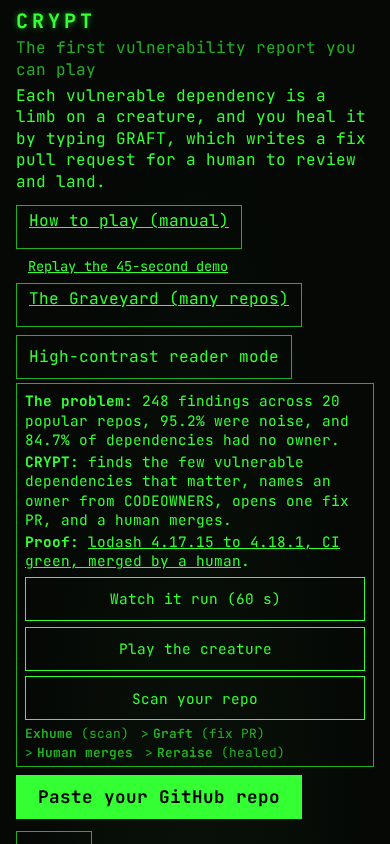
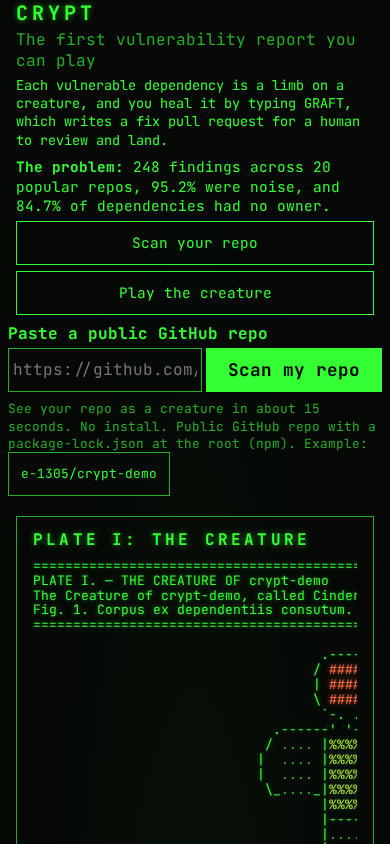
feat: compact phone hero, game input within two screens at 390x844

diff --git a/web/style.css b/web/style.css
@@ -269,17 +269,38 @@ body.record .theatre-caption { display: none; }
   body:not(.theatre) > * { order: 0; min-width: 0; max-width: 100%; }
   body:not(.theatre) .crt, body:not(.theatre) .left, body:not(.theatre) .side { display: contents; }
   body:not(.theatre) .crt { box-shadow: none; }
-  body:not(.theatre) .plate-pane { order: 1; margin: .5rem 1rem 0; }
-  body:not(.theatre) .game { order: 2; margin: 1rem 1rem 0; }
-  body:not(.theatre) #raid { order: 3; margin: 1rem; }
-  body:not(.theatre) #sim { order: 4; margin: 0 1rem 1rem; }
-  body:not(.theatre) .side > .pane { order: 5; margin: 0 1rem 1rem; }
-  body:not(.theatre) #proof { order: 6; margin: 0 1rem 1rem; }
+  /* R2: the first screen is the title, the problem line, Scan your repo, Play and the paste form. The plate and the game
+     follow. The what/proof lines, the 3-step strip, Watch it run, the Bench and the header links sit below the game. */
+  body:not(.theatre) .top, body:not(.theatre) .hero, body:not(.theatre) .hero-actions { display: contents; }
+  body:not(.theatre) .top > *, body:not(.theatre) .hero > *, body:not(.theatre) .hero-actions > * { min-width: 0; max-width: 100%; }
+  body:not(.theatre) .intro { order: 0; flex: none; margin: 0 1rem; }
+  body:not(.theatre) .intro .pitch { font-size: .85rem; margin: .25rem 0; }
+  body:not(.theatre) .intro .subtitle { margin: .1rem 0; }
+  body:not(.theatre) #hero-problem { order: 1; margin: .25rem 1rem 0; }
+  body:not(.theatre) #hero-scan { order: 2; margin: .35rem 1rem 0; flex: none; }
+  body:not(.theatre) #hero-play { order: 3; margin: .35rem 1rem 0; flex: none; }
+  body:not(.theatre) .paste { order: 4; }
+  body:not(.theatre) .plate-pane { order: 5; margin: .5rem 1rem 0; }
+  body:not(.theatre) .game { order: 6; margin: 1rem 1rem 0; }
+  body:not(.theatre) #judge-replay, body:not(.theatre) #daily-banner, body:not(.theatre) #tutorial { order: 7; }
+  body:not(.theatre) #judge-replay { margin: .5rem 1rem 0; }
+  body:not(.theatre) #raid { order: 7; margin: 1rem; }
+  body:not(.theatre) #sim { order: 8; margin: 0 1rem 1rem; }
+  body:not(.theatre) .side > .pane { order: 9; margin: 0 1rem 1rem; }
+  body:not(.theatre) #proof { order: 10; margin: 0 1rem 1rem; }
+  body:not(.theatre) #hero-what, body:not(.theatre) #hero-proof, body:not(.theatre) #hero-steps { order: 11; margin: .25rem 1rem; }
+  body:not(.theatre) #hero-watch { order: 12; margin: .35rem 1rem 0; flex: none; }
+  body:not(.theatre) .bench { order: 13; }
+  body:not(.theatre) .manual-link { order: 14; margin: .35rem 1rem 0; }
+  body:not(.theatre) .views { order: 14; margin: .35rem 1rem 0; flex: none; }
+  body:not(.theatre) #hc-toggle { order: 15; margin: .35rem 1rem; }
+  body.record:not(.theatre) .top { display: none; }
+  body.judge-running:not(.theatre) .intro { padding-top: 2.75rem; }
   /* The hero already carries the proof line on small screens; the header copy would push the game down. */
   body:not(.theatre) #proof-line { display: none; }
   body:not(.theatre)::after { display: none; }
   body:not(.theatre) .plate { overflow-x: auto; max-width: 100%; }
-  body:not(.theatre) .transcript { height: 12rem; }
+  body:not(.theatre) .transcript { height: 10rem; }
   button, .raid-actions button, .manual-link, .view-3d, .gallery-list a, .skip:focus, input, .pane a, .built-with a { min-height: 44px; min-width: 44px; }
   .pane a, .built-with a, .gallery-list a { display: inline-flex; align-items: center; }
   .gallery-list a { line-height: 1.2; }
@@ -346,7 +367,6 @@ body.theatre .judge-counter:not(.judge-counter-inline) { top: 5rem; }
 body.theatre .seal-badge { top: 4.5rem; }
 body.hc .primary { background: #fff; color: #000; border-color: #fff; }
 @media (max-width: 899px) {
-  body:not(.theatre) .paste, body:not(.theatre) .bench { order: 0; }
   .paste-form input { flex-basis: 100%; }
 }
 body.theatre #gallery { display: none; }

diff --git a/tests/phone-compact-hero.test.ts b/tests/phone-compact-hero.test.ts
@@ -1,0 +1,32 @@
+// STRUCTURAL: reads web/style.css text. The rendered position of #cmd (<= 1700px at 390x844) is checked by scripts/ci/visual-qa.mjs.
+import { describe, expect, it } from "vitest";
+import { readFileSync } from "node:fs";
+import { join } from "node:path";
+
+const css = readFileSync(join(import.meta.dirname, "..", "web", "style.css"), "utf8");
+const start = css.indexOf("/* R2: the first screen");
+const phone = css.slice(start, css.indexOf("}\n", css.indexOf("#hc-toggle { order", start)));
+const order = (sel: string) => {
+  const m = phone.match(new RegExp(`(?:^|[\\s,])${sel.replace(/[.#]/g, "\\$&")}\\s*(?:,[^{]*)?\\{[^}]*order:\\s*(\\d+)`, "m"));
+  expect(m, sel).not.toBeNull();
+  return Number(m![1]);
+};
+
+describe("phone compact hero (below 900px)", () => {
+  it("lists problem, Scan, Play, paste form, plate, game in that order", () => {
+    const seq = ["#hero-problem", "#hero-scan", "#hero-play", ".paste", ".plate-pane", ".game"].map(order);
+    expect([...seq].sort((a, b) => a - b)).toEqual(seq);
+    expect(new Set(seq).size).toBe(seq.length);
+  });
+
+  it("moves the steps, what, proof lines, Watch, Bench and header links below the game", () => {
+    const game = order(".game");
+    for (const s of ["#hero-what", "#hero-steps", "#hero-watch", ".bench", ".views", "#hc-toggle", "#proof"]) expect(order(s), s).toBeGreaterThan(game);
+  });
+
+  it("is scoped to phones and leaves the hero visible parts in the DOM", () => {
+    expect(css.slice(0, start)).toMatch(/@media \(max-width: 899px\) \{[^@]*$/);
+    const html = readFileSync(join(import.meta.dirname, "..", "web", "index.html"), "utf8");
+    for (const id of ["hero-problem", "hero-what", "hero-proof", "hero-steps", "hero-watch", "hero-play", "hero-scan"]) expect(html).toContain(`id="${id}"`);
+  });
+});
